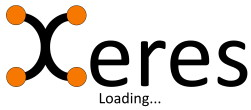
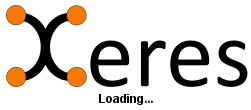
Improve the splash screen
Make the splash screen display the current initialization status dynamically as well as making it persist as far as possible.

Finally solve the headless property being set to false and causing troubles for AWT. It was JavaFX's fault. Remove the workarounds.

Changed region(s): [[0.3904, 0.8455, 0.6414, 0.9818]]

diff --git a/app/src/main/java/io/xeres/app/application/Startup.java b/app/src/main/java/io/xeres/app/application/Startup.java
@@ -39,6 +39,7 @@ import io.xeres.app.service.PrefsService;
 import io.xeres.app.xrs.service.RsServiceRegistry;
 import io.xeres.common.AppName;
 import io.xeres.common.protocol.ip.IP;
+import io.xeres.ui.support.splash.SplashService;
 import org.slf4j.Logger;
 import org.slf4j.LoggerFactory;
 import org.springframework.boot.ApplicationArguments;
@@ -50,7 +51,6 @@ import org.springframework.context.event.EventListener;
 import org.springframework.core.env.Environment;
 import org.springframework.stereotype.Component;
 
-import java.awt.*;
 import java.nio.charset.Charset;
 import java.nio.charset.StandardCharsets;
 import java.nio.file.Path;
@@ -58,7 +58,6 @@ import java.util.Optional;
 import java.util.concurrent.CompletableFuture;
 import java.util.stream.Collectors;
 
-import static io.xeres.app.application.environment.Cloud.isRunningOnCloud;
 import static java.util.function.Predicate.not;
 
 @Component
@@ -80,8 +79,9 @@ public class Startup implements ApplicationRunner
 	private final DataDirConfiguration dataDirConfiguration;
 	private final ChatRoomService chatRoomService;
 	private final PeerConnectionManager peerConnectionManager;
+	private final SplashService splashService;
 
-	public Startup(PeerService peerService, UPNPService upnpService, BroadcastDiscoveryService broadcastDiscoveryService, DHTService dhtService, LocationService locationService, PrefsService prefsService, BuildProperties buildProperties, Environment environment, ApplicationEventPublisher publisher, NetworkProperties networkProperties, DatabaseSessionManager databaseSessionManager, DataDirConfiguration dataDirConfiguration, ChatRoomService chatRoomService, PeerConnectionManager peerConnectionManager)
+	public Startup(PeerService peerService, UPNPService upnpService, BroadcastDiscoveryService broadcastDiscoveryService, DHTService dhtService, LocationService locationService, PrefsService prefsService, BuildProperties buildProperties, Environment environment, ApplicationEventPublisher publisher, NetworkProperties networkProperties, DatabaseSessionManager databaseSessionManager, DataDirConfiguration dataDirConfiguration, ChatRoomService chatRoomService, PeerConnectionManager peerConnectionManager, SplashService splashService)
 	{
 		this.peerService = peerService;
 		this.upnpService = upnpService;
@@ -97,6 +97,7 @@ public class Startup implements ApplicationRunner
 		this.dataDirConfiguration = dataDirConfiguration;
 		this.chatRoomService = chatRoomService;
 		this.peerConnectionManager = peerConnectionManager;
+		this.splashService = splashService;
 	}
 
 	@Override
@@ -113,8 +114,6 @@ public class Startup implements ApplicationRunner
 			showDebug();
 		}
 
-		hideSplashScreen();
-
 		if (XeresApplication.isRemoteUiClient())
 		{
 			log.info("Remote UI mode");
@@ -123,6 +122,7 @@ public class Startup implements ApplicationRunner
 
 		if (prefsService.isOwnProfilePresent())
 		{
+			splashService.status("Starting network");
 			try (var session = new DatabaseSession(databaseSessionManager))
 			{
 				var location = locationService.findOwnLocation().orElseThrow();
@@ -144,6 +144,7 @@ public class Startup implements ApplicationRunner
 		else
 		{
 			log.info("Waiting... Use the user interface to send commands to create a profile");
+			splashService.close();
 		}
 	}
 
@@ -182,6 +183,7 @@ public class Startup implements ApplicationRunner
 				log.error("Local address is invalid: {}, can't start network services", event.localIpAddress());
 			}
 		}
+		splashService.close();
 	}
 
 	@EventListener // We don't use @PreDestroy because netty uses other beans on shutdown and we don't want them in shutdown state already
@@ -248,32 +250,6 @@ public class Startup implements ApplicationRunner
 		else
 		{
 			log.debug("Netty leak detector disabled");
-		}
-	}
-
-	private void hideSplashScreen()
-	{
-		if (isRunningOnCloud())
-		{
-			return;
-		}
-
-		// XXX: how to avoid the splash screen with --no-gui?
-		System.setProperty("java.awt.headless", "false"); // XXX: same problem as in 'ui'... should the splash screen be handled by the 'ui' module?
-		try
-		{
-			var splashScreen = SplashScreen.getSplashScreen();
-
-			// XXX: we could print stuff over the splashscreen while starting, see: https://docs.oracle.com/javase/tutorial/uiswing/misc/splashscreen.html
-			if (splashScreen != null)
-			{
-				splashScreen.close();
-			}
-		}
-		catch (Exception | UnsatisfiedLinkError e)
-		{
-			// Apparently that splashscreen stuff is brittle
-			log.error("Error while trying to close splash screen: {}", e.getMessage());
 		}
 	}
 

diff --git a/ui/src/main/java/io/xeres/ui/support/splash/SplashService.java b/ui/src/main/java/io/xeres/ui/support/splash/SplashService.java
@@ -1,0 +1,88 @@
+/*
+ * Copyright (c) 2019-2021 by David Gerber - https://zapek.com
+ *
+ * This file is part of Xeres.
+ *
+ * Xeres is free software: you can redistribute it and/or modify
+ * it under the terms of the GNU General Public License as published by
+ * the Free Software Foundation, either version 3 of the License, or
+ * (at your option) any later version.
+ *
+ * Xeres is distributed in the hope that it will be useful,
+ * but WITHOUT ANY WARRANTY; without even the implied warranty of
+ * MERCHANTABILITY or FITNESS FOR A PARTICULAR PURPOSE.  See the
+ * GNU General Public License for more details.
+ *
+ * You should have received a copy of the GNU General Public License
+ * along with Xeres.  If not, see <http://www.gnu.org/licenses/>.
+ */
+
+package io.xeres.ui.support.splash;
+
+import org.springframework.stereotype.Service;
+
+import java.awt.*;
+
+@Service
+public final class SplashService
+{
+	private SplashScreen splashScreen;
+	private Graphics2D g2d;
+	private Dimension dimension;
+
+	public SplashService()
+	{
+		if (!isHeadless())
+		{
+			this.splashScreen = SplashScreen.getSplashScreen();
+
+			if (splashScreen != null && splashScreen.isVisible())
+			{
+				g2d = splashScreen.createGraphics();
+				dimension = splashScreen.getSize();
+
+				g2d.setFont(g2d.getFont().deriveFont(Font.BOLD));
+				g2d.setRenderingHint(RenderingHints.KEY_TEXT_ANTIALIASING, RenderingHints.VALUE_TEXT_ANTIALIAS_ON);
+			}
+		}
+	}
+
+	private boolean isHeadless()
+	{
+		return "true".equals(System.getProperty("java.awt.headless"));
+	}
+
+	public void status(String description)
+	{
+		if (g2d != null)
+		{
+			double y = dimension.getHeight() - 20;
+			g2d.setColor(Color.WHITE);
+			g2d.fillRect(0, (int) y, (int) dimension.getWidth(), 20);
+			g2d.setColor(Color.BLACK);
+			drawStringCentered(description + "\u2026", (int) y);
+
+			splashScreen.update();
+		}
+	}
+
+	public void close()
+	{
+		if (splashScreen != null)
+		{
+			// We don't need the splash screen anymore, so let the GC collect it
+			splashScreen.close();
+			g2d = null;
+			dimension = null;
+			splashScreen = null;
+		}
+	}
+
+	private void drawStringCentered(String s, int y)
+	{
+		FontMetrics metrics = g2d.getFontMetrics();
+		int x = ((int) dimension.getWidth() - metrics.stringWidth(s)) / 2;
+
+		g2d.drawString(s, x, y + metrics.getAscent());
+	}
+}

diff --git a/app/src/main/java/io/xeres/app/configuration/DataSourceConfiguration.java b/app/src/main/java/io/xeres/app/configuration/DataSourceConfiguration.java
@@ -20,6 +20,7 @@
 package io.xeres.app.configuration;
 
 import io.xeres.app.properties.DatabaseProperties;
+import io.xeres.ui.support.splash.SplashService;
 import org.slf4j.Logger;
 import org.slf4j.LoggerFactory;
 import org.springframework.boot.autoconfigure.condition.ConditionalOnProperty;
@@ -45,18 +46,22 @@ public class DataSourceConfiguration
 	private final Environment environment;
 	private final DatabaseProperties databaseProperties;
 	private final DataDirConfiguration dataDirConfiguration;
+	private final SplashService splashService;
 
-	public DataSourceConfiguration(Environment environment, DatabaseProperties databaseProperties, DataDirConfiguration dataDirConfiguration)
+	public DataSourceConfiguration(Environment environment, DatabaseProperties databaseProperties, DataDirConfiguration dataDirConfiguration, SplashService splashService)
 	{
 		this.environment = environment;
 		this.databaseProperties = databaseProperties;
 		this.dataDirConfiguration = dataDirConfiguration;
+		this.splashService = splashService;
 	}
 
 	@Bean
 	@ConditionalOnProperty(prefix = "spring.datasource", name = "url", havingValue = "false", matchIfMissing = true)
 	public DataSource getDataSource()
 	{
+		splashService.status("Loading database");
+
 		var useJMX = "";
 
 		if (environment.acceptsProfiles(Profiles.of("dev")))

diff --git a/ui/src/main/java/io/xeres/ui/JavaFxApplication.java b/ui/src/main/java/io/xeres/ui/JavaFxApplication.java
@@ -49,11 +49,17 @@ public class JavaFxApplication extends Application
 		return new SpringFxWeaver(applicationContext);
 	}
 
+	private boolean isHeadless()
+	{
+		return getParameters().getUnnamed().contains("no-gui");
+	}
+
 	@Override
 	public void init()
 	{
 		springContext = new SpringApplicationBuilder()
 				.sources(springApplicationClass)
+				.headless(isHeadless()) // JavaFX defaults to true which is not what we want
 				.run(getParameters().getRaw().toArray(new String[0]));
 	}
 

diff --git a/ui/src/main/java/io/xeres/ui/support/tray/TrayService.java b/ui/src/main/java/io/xeres/ui/support/tray/TrayService.java
@@ -56,7 +56,6 @@ public class TrayService
 		{
 			return;
 		}
-		System.setProperty("java.awt.headless", "false");
 
 		if (!SystemTray.isSupported())
 		{
